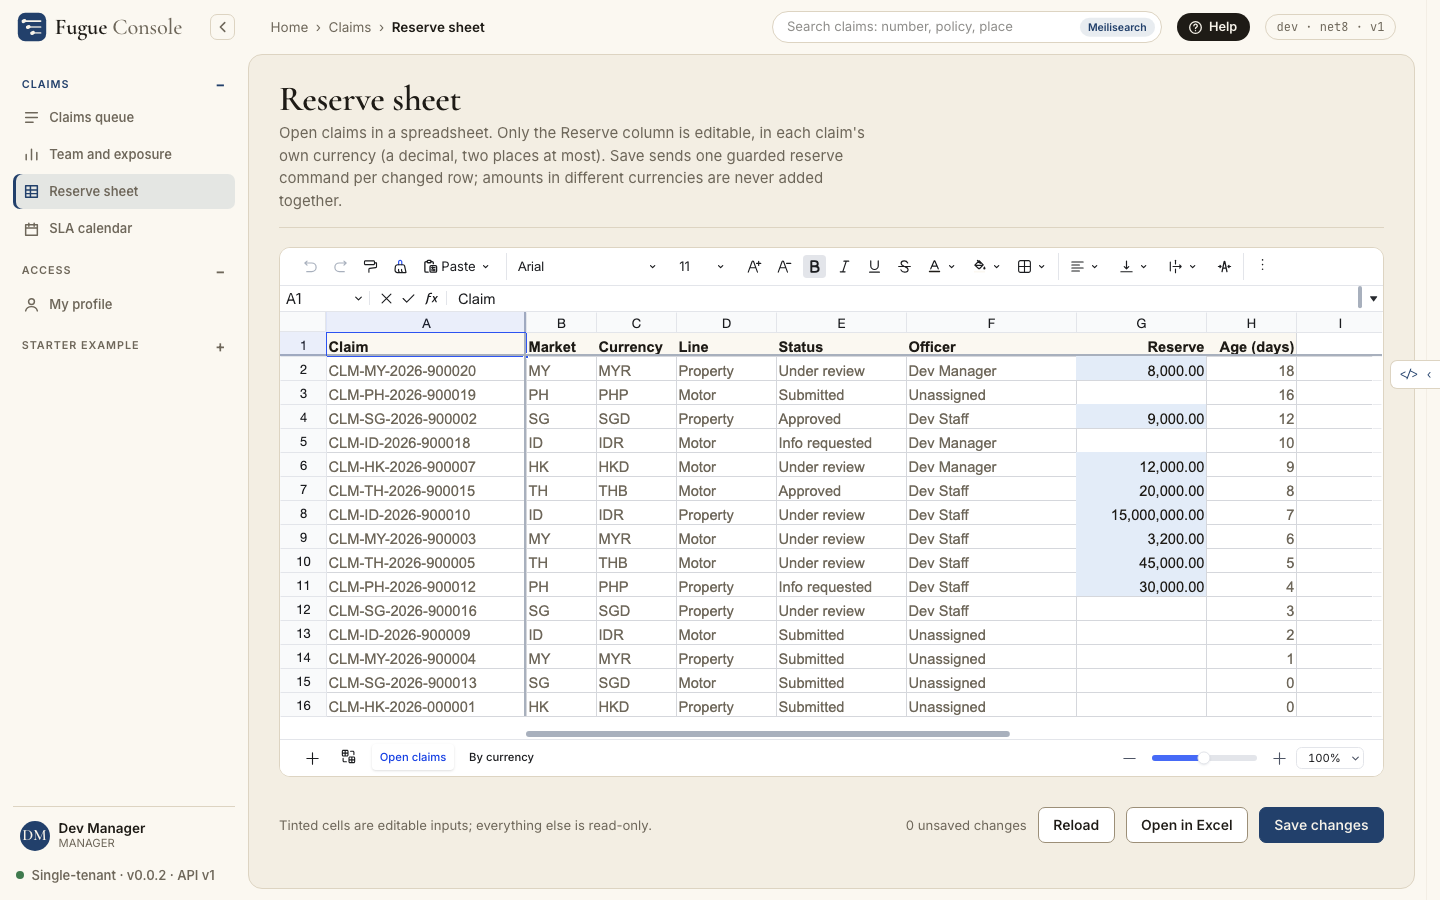
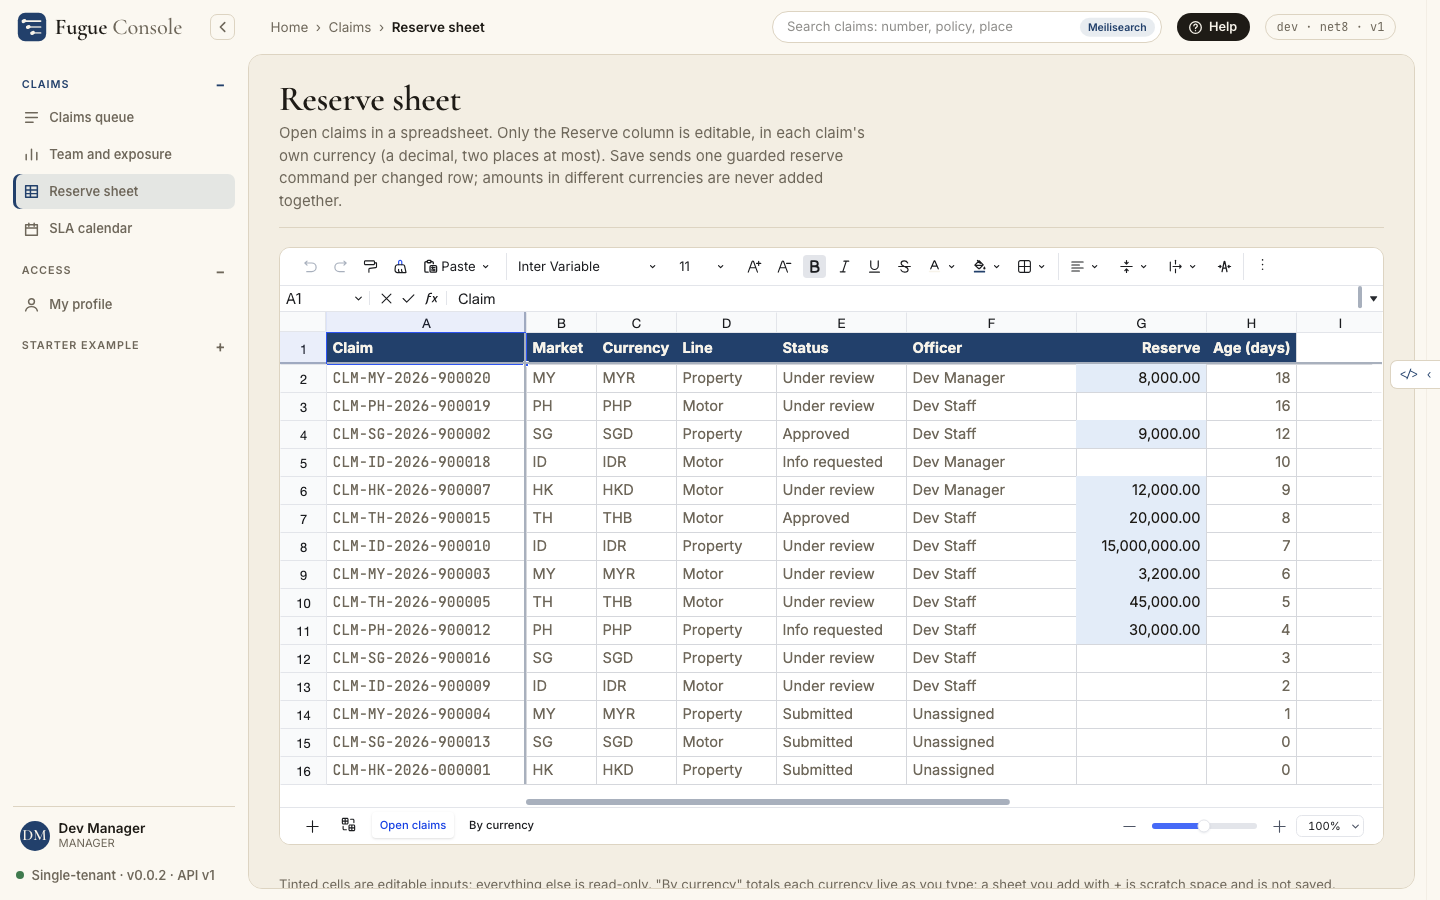
feat(web): the workbooks look like the console, not a default grid
Accent header band with light text, Inter on the canvas and mono claim numbers,
taller rows centred vertically with padding; host height follows the row geometry.

Refs: D-064
Claude-Session: https://claude.ai/code/session_013M8hUMmzSgW53sxbR6rjBi

Changed region(s): [[0.1875, 0.3422, 0.9688, 0.9956], [0.3438, 0.28, 0.4062, 0.3111]]

diff --git a/web/src/app/features/claims/univer-loader.ts b/web/src/app/features/claims/univer-loader.ts
@@ -4,6 +4,8 @@ import sheetsCoreEnUS from '@univerjs/preset-sheets-core/locales/en-US';
 import {
   RESERVE_COLUMN_WIDTHS,
   ASSESSMENT_COLUMN_WIDTHS,
+  HEADER_ROW_HEIGHT,
+  ROW_HEIGHT,
   RESERVES_SHEET,
   SUMMARY_SHEET,
   sheetRowCount,
@@ -50,6 +52,23 @@ const SPARE_COLUMNS = 8;
 /** A1 column letter for a 0-based column (A..Z is enough here). */
 const col = (c: number) => String.fromCharCode(65 + c);
 
+/** The console's faces on the canvas (the variable fonts are already loaded by the app), vertically centred, a little padding. */
+const UI_FONT = 'Inter Variable';
+const MONO_FONT = 'JetBrains Mono Variable';
+const base = { ff: UI_FONT, fs: 11, vt: 2, pd: { l: 6, r: 6 } };
+/** Header band: the accent colour with light text, like the console's own table heads, not a grey row. */
+function headStyle(right: boolean) {
+  return {
+    ...base,
+    bl: 1,
+    bg: { rgb: token('--accent') },
+    cl: { rgb: token('--on-accent') },
+    ...(right ? { ht: 3 } : {}),
+  };
+}
+/** Row geometry shared by both sheets. */
+const rowGeometry = { defaultRowHeight: ROW_HEIGHT, rowData: { 0: { h: HEADER_ROW_HEIGHT } } };
+
 /**
  * Mounts a Univer workbook into `container` and returns a handle to dispose it. This module (and Univer with it) is only
  * reached through a dynamic import from the reserve sheet page, so it lands in that route's lazy chunks.
@@ -65,14 +84,11 @@ export function createSheet(
   const { univer, univerAPI } = boot(container, WORKBOOK_FOOTER);
 
   const cellData: Record<number, Record<number, object>> = {};
-  const headBg = token('--surface');
   const text = token('--text');
   const muted = token('--muted');
   const input = token('--sheet-input');
   const put = (r: number, c: number, cell: object) => ((cellData[r] ??= {})[c] = cell);
-  header.forEach((h, c) =>
-    put(0, c, { v: h, s: { bl: 1, bg: { rgb: headBg }, cl: { rgb: text }, ...(c >= editableCol ? { ht: 3 } : {}) } }),
-  );
+  header.forEach((h, c) => put(0, c, { v: h, s: headStyle(c >= editableCol) }));
   body.forEach((row, i) =>
     row.forEach((v, c) => {
       if (v === null) return;
@@ -81,6 +97,8 @@ export function createSheet(
         v,
         t: typeof v === 'number' ? 2 : 1,
         s: {
+          ...base,
+          ...(c === 0 ? { ff: MONO_FONT } : {}),
           cl: { rgb: reserve ? text : muted },
           ...(reserve ? { bg: { rgb: input }, n: { pattern: '#,##0.00' } } : {}),
           ...(c >= editableCol ? { ht: 3 } : {}),
@@ -98,18 +116,19 @@ export function createSheet(
   const sumHead = ['Currency', 'Open claims', 'With a reserve', 'Total reserve'];
   const summary: Record<number, Record<number, object>> = {};
   const sput = (r: number, c: number, cell: object) => ((summary[r] ??= {})[c] = cell);
-  sumHead.forEach((h, c) =>
-    sput(0, c, { v: h, s: { bl: 1, bg: { rgb: headBg }, cl: { rgb: text }, ...(c > 0 ? { ht: 3 } : {}) } }),
-  );
+  sumHead.forEach((h, c) => sput(0, c, { v: h, s: headStyle(c > 0) }));
   currencies.forEach((cur, i) => {
     const r = i + 1;
     const a = `A${r + 1}`;
-    sput(r, 0, { v: cur, s: { cl: { rgb: text } } });
-    sput(r, 1, { f: `=COUNTIF(${ref(currencyCol)},${a})`, s: { cl: { rgb: muted }, ht: 3 } });
-    sput(r, 2, { f: `=COUNTIFS(${ref(currencyCol)},${a},${ref(editableCol)},"<>")`, s: { cl: { rgb: muted }, ht: 3 } });
+    sput(r, 0, { v: cur, s: { ...base, bl: 1, cl: { rgb: text } } });
+    sput(r, 1, { f: `=COUNTIF(${ref(currencyCol)},${a})`, s: { ...base, cl: { rgb: muted }, ht: 3 } });
+    sput(r, 2, {
+      f: `=COUNTIFS(${ref(currencyCol)},${a},${ref(editableCol)},"<>")`,
+      s: { ...base, cl: { rgb: muted }, ht: 3 },
+    });
     sput(r, 3, {
       f: `=SUMIF(${ref(currencyCol)},${a},${ref(editableCol)})`,
-      s: { bl: 1, cl: { rgb: text }, n: { pattern: '#,##0.00' }, ht: 3 },
+      s: { ...base, bl: 1, cl: { rgb: text }, n: { pattern: '#,##0.00' }, ht: 3 },
     });
   });
 
@@ -123,6 +142,7 @@ export function createSheet(
         name: 'Open claims',
         rowCount: sheetRowCount(body.length),
         columnCount: header.length + SPARE_COLUMNS,
+        ...rowGeometry,
         freeze: { xSplit: 1, ySplit: 1, startRow: 1, startColumn: 1 },
         columnData: Object.fromEntries(RESERVE_COLUMN_WIDTHS.map((width, c) => [c, { w: width }])),
         cellData,
@@ -132,6 +152,7 @@ export function createSheet(
         name: 'By currency',
         rowCount: Math.max(sheetRowCount(currencies.length), sheetRowCount(body.length)),
         columnCount: sumHead.length + SPARE_COLUMNS,
+        ...rowGeometry,
         freeze: { xSplit: 0, ySplit: 1, startRow: 1, startColumn: 0 },
         columnData: { 0: { w: 110 }, 1: { w: 120 }, 2: { w: 130 }, 3: { w: 160 } },
         cellData: summary,
@@ -179,22 +200,21 @@ export function createAssessmentSheet(
   const { univer, univerAPI } = boot(container);
   const text = token('--text');
   const muted = token('--muted');
-  const headBg = token('--surface');
   const input = token('--sheet-input');
   const cellData: Record<number, Record<number, object>> = {
     0: {
-      0: { v: 'Item', s: { bl: 1, bg: { rgb: headBg }, cl: { rgb: text } } },
-      1: { v: `Amount (${currency})`, s: { bl: 1, bg: { rgb: headBg }, cl: { rgb: text }, ht: 3 } },
+      0: { v: 'Item', s: headStyle(false) },
+      1: { v: `Amount (${currency})`, s: headStyle(true) },
     },
   };
   labels.forEach((label, i) => {
     const row = i + 1;
     const total = formulas[row] !== undefined;
     cellData[row] = {
-      0: { v: label, s: { cl: { rgb: total ? text : muted }, ...(total ? { bl: 1 } : {}) } },
+      0: { v: label, s: { ...base, cl: { rgb: total ? text : muted }, ...(total ? { bl: 1 } : {}) } },
       1: total
-        ? { f: formulas[row], s: { bl: 1, n: { pattern: '#,##0.00' }, cl: { rgb: text }, ht: 3 } }
-        : { s: { bg: { rgb: input }, n: { pattern: '#,##0.00' }, cl: { rgb: text }, ht: 3 } },
+        ? { f: formulas[row], s: { ...base, bl: 1, n: { pattern: '#,##0.00' }, cl: { rgb: text }, ht: 3 } }
+        : { s: { ...base, bg: { rgb: input }, n: { pattern: '#,##0.00' }, cl: { rgb: text }, ht: 3 } },
     };
   });
   univerAPI.createWorkbook({
@@ -207,6 +227,7 @@ export function createAssessmentSheet(
         name: 'Assessment',
         rowCount: sheetRowCount(labels.length),
         columnCount: 2,
+        ...rowGeometry,
         columnData: Object.fromEntries(ASSESSMENT_COLUMN_WIDTHS.map((width, c) => [c, { w: width }])),
         cellData,
       },

diff --git a/web/src/app/features/claims/sheet-layout.ts b/web/src/app/features/claims/sheet-layout.ts
@@ -13,8 +13,12 @@ export const ASSESSMENT_COLUMN_WIDTHS: readonly number[] = [300, 170];
 
 /** Pixel height that fits the Univer chrome (ribbon, toolbar, formula bar, column letters) plus every row, no dead space. */
 export function sheetHostHeight(rowCount: number): number {
-  return 124 + rowCount * 24 + 20;
+  return 124 + HEADER_ROW_HEIGHT + (rowCount - 1) * ROW_HEIGHT + 20;
 }
+
+/** Row heights (px): a taller header band and roomy data rows, closer to a desktop spreadsheet than Univer's 24 px. */
+export const HEADER_ROW_HEIGHT = 32;
+export const ROW_HEIGHT = 28;
 
 /** Reserve workbook sheet ids: the claims sheet is the only one read back and saved; the summary is formulas over it. */
 export const RESERVES_SHEET = 's1';

diff --git a/web/src/app/features/claims/sheet-layout.spec.ts b/web/src/app/features/claims/sheet-layout.spec.ts
@@ -18,7 +18,7 @@ describe('sheet layout', () => {
   });
 
   it('sizes the host to the chrome plus the rows', () => {
-    expect(sheetHostHeight(9)).toBe(360);
+    expect(sheetHostHeight(9)).toBe(124 + 32 + 8 * 28 + 20); // chrome + header band + eight data rows + footer slack
     expect(sheetHostHeight(17)).toBeGreaterThan(sheetHostHeight(9));
   });
 });
